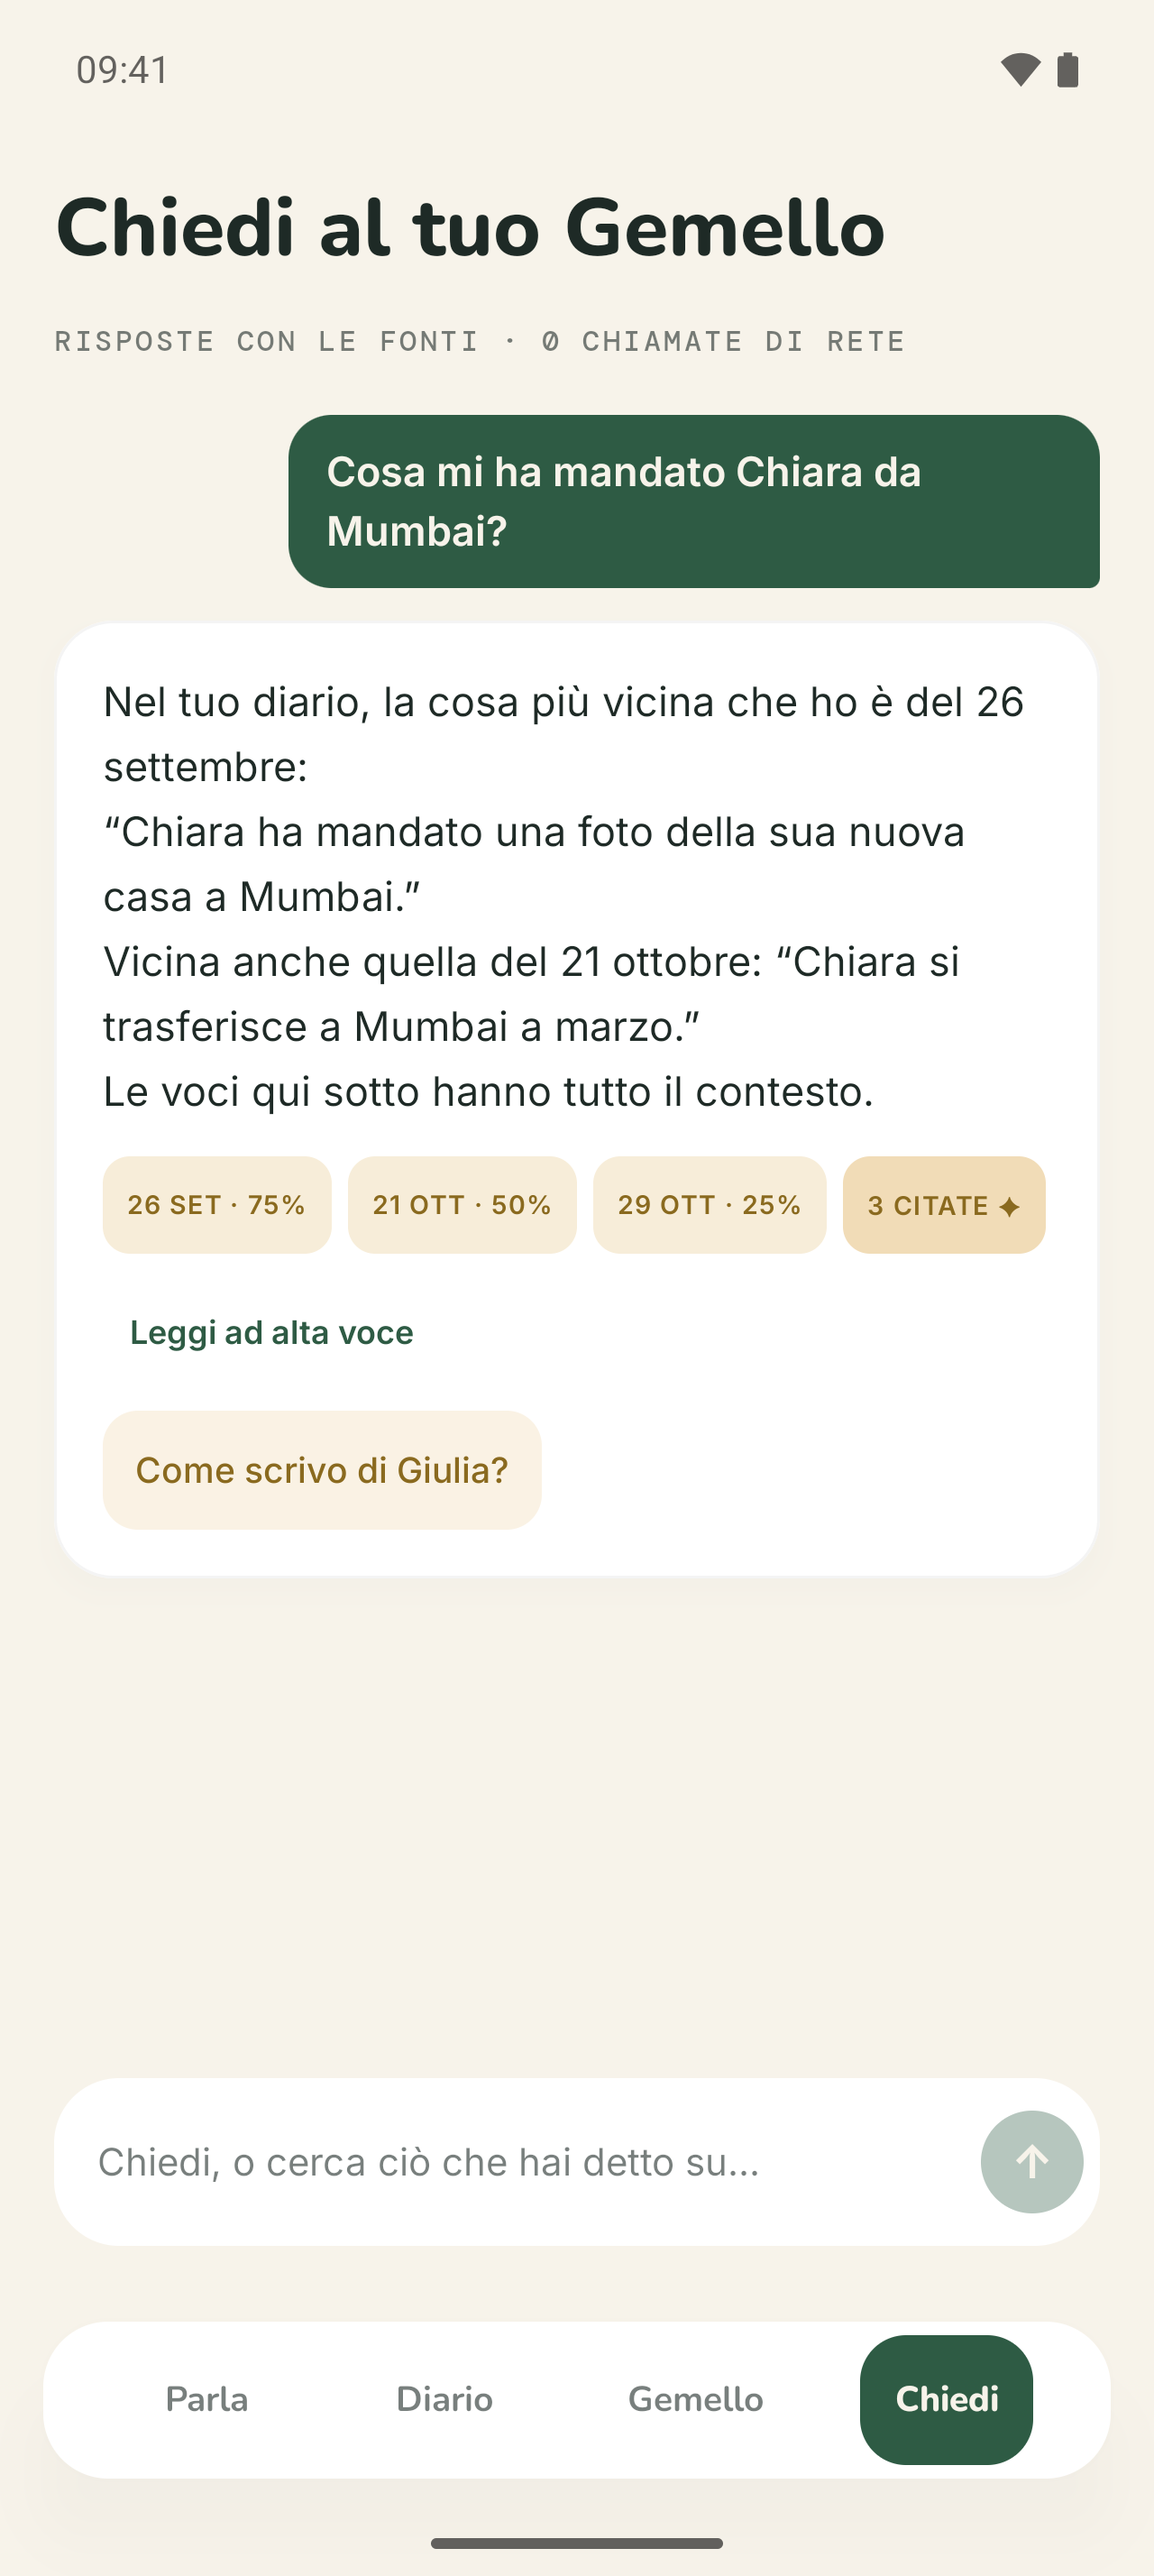
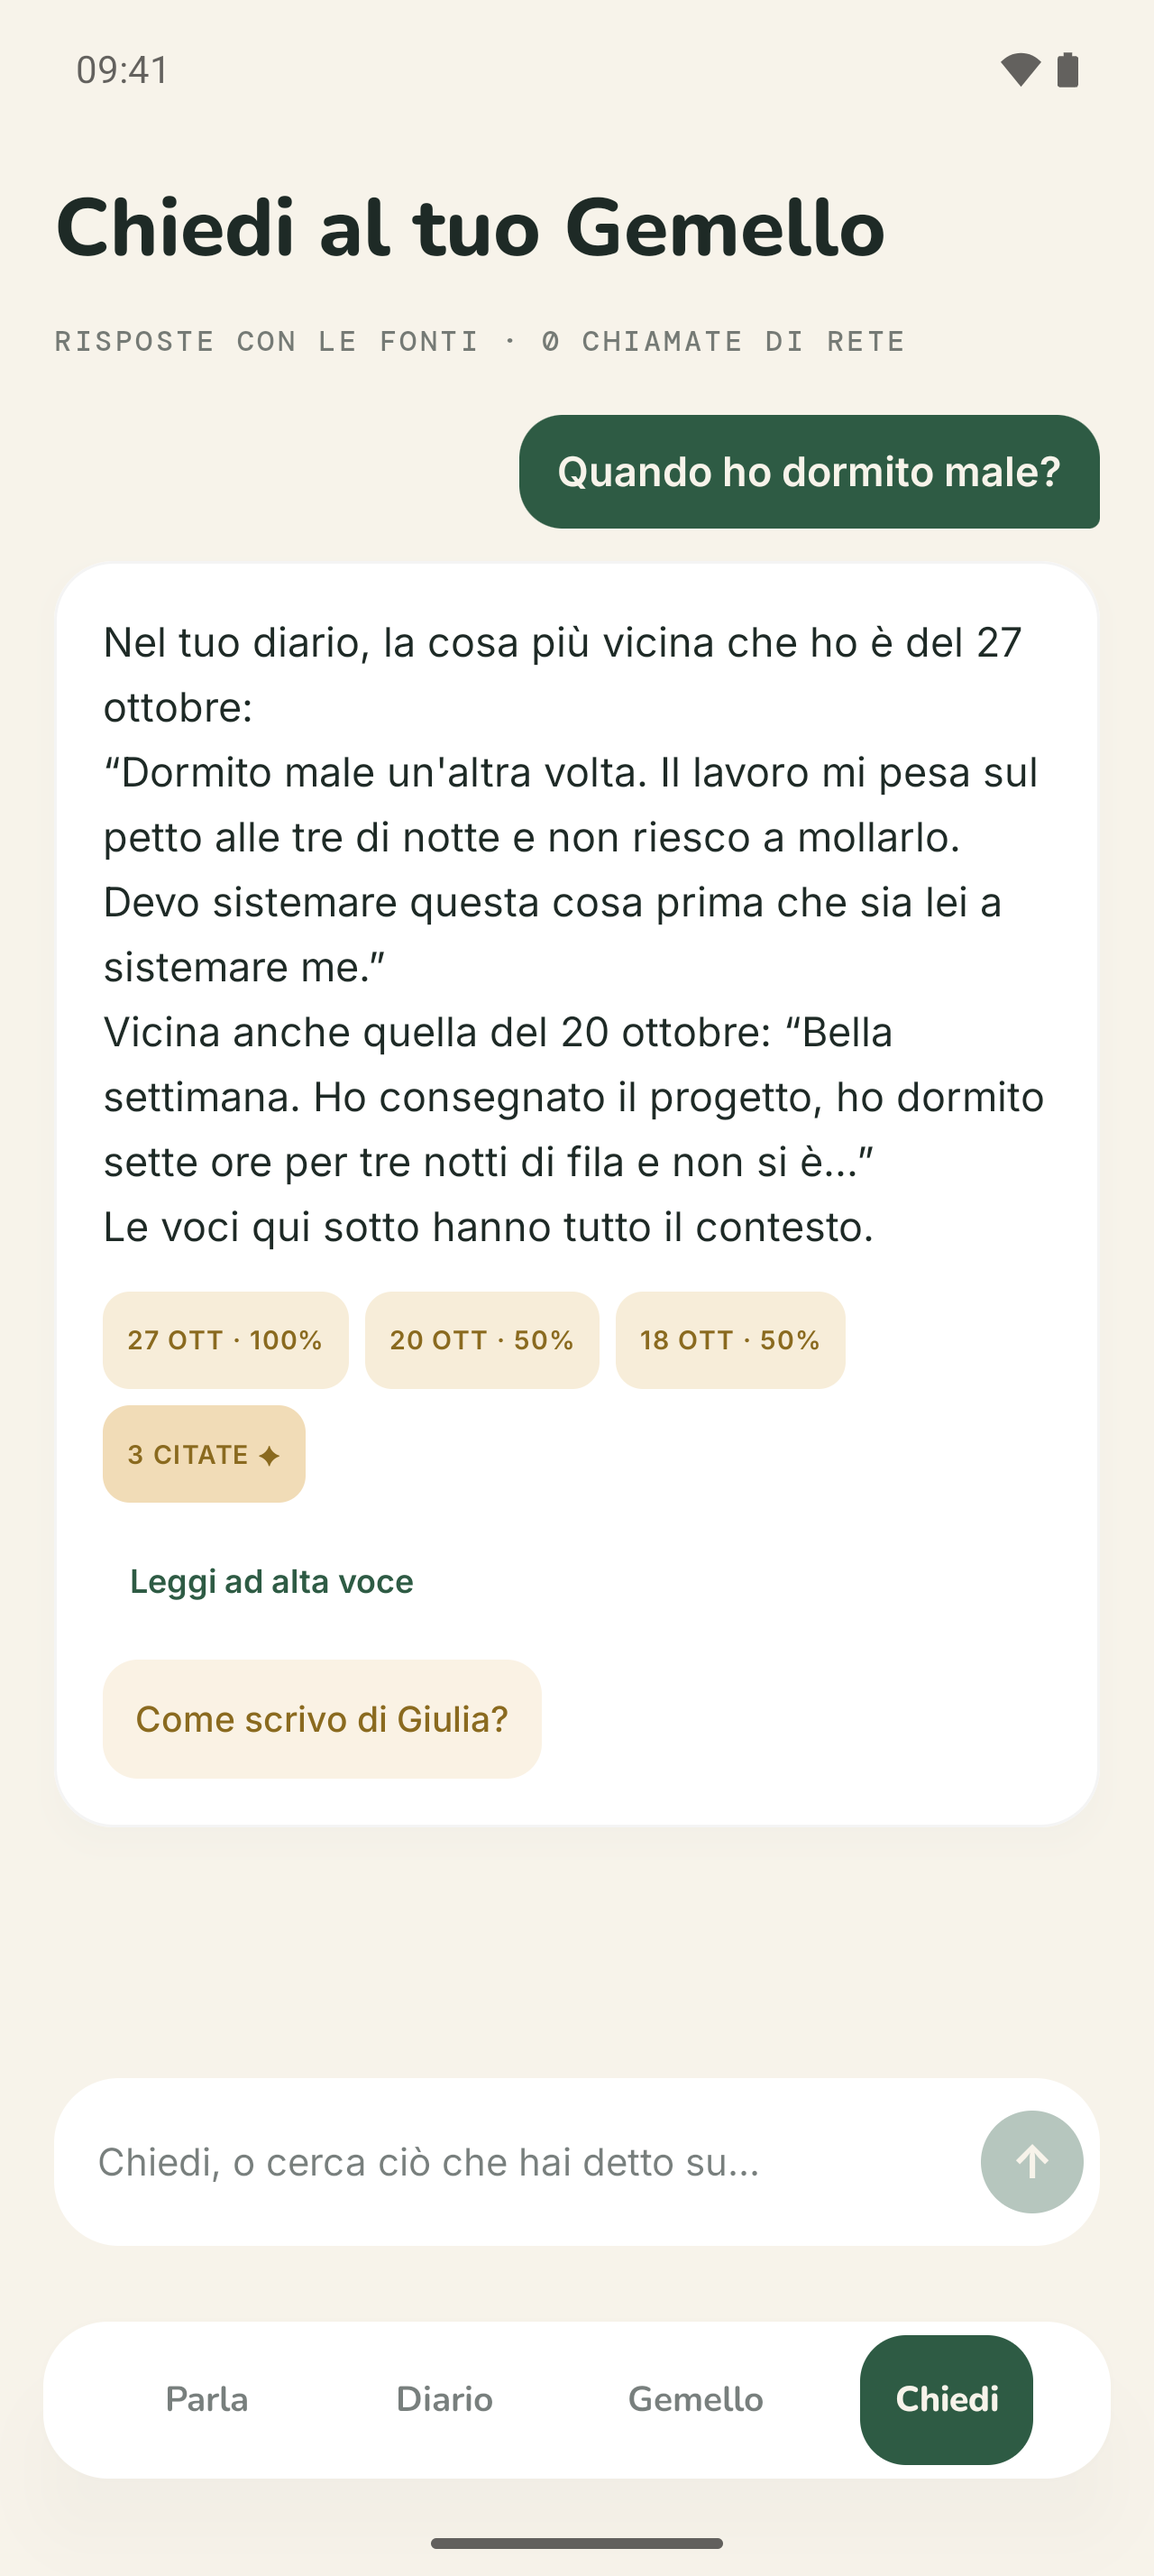
playstore: re-shoot the localized Ask frames on the language-aware search
With Ask searching in the question's language (c4aabfb2), ordinary
questions now find their entry, so de, fr, it and pt-BR ask the natural
one: when did I sleep badly. Each answer quotes the "slept badly" entry
at 100% plus a second entry, three citations, plural footer, no English
on screen. es keeps "¿Carmen se va a vivir a Mumbai?": the platform
classifier still reads the shorter "¿Carmen se muda a Mumbai?" as English
and frames the answer in English. Citation counts are unchanged, so the
captions are too. English output is byte-identical.

diff --git a/android/playstore/screenshot-src/compose.py b/android/playstore/screenshot-src/compose.py
@@ -41,17 +41,18 @@ quoting the closest entries, with their dates, and that is all its caption
 claims. Each Ask capture is a real question in that language, typed on the
 phone, answered from the seeded journal (not the abstention):
 
-    de     Was hat Marie aus Mumbai geschickt?
+    de     Wann habe ich schlecht geschlafen?
     es     ¿Carmen se va a vivir a Mumbai?
-    fr     Qu'est-ce que Léa m'a envoyé de Mumbai ?
-    it     Cosa mi ha mandato Chiara da Mumbai?
-    pt-BR  A Beatriz vai morar em Mumbai?
+    fr     Quand est-ce que j'ai mal dormi ?
+    it     Quando ho dormito male?
+    pt-BR  Quando eu dormi mal?
 
-Ask's word match counts the question's own function words against it (they
-are not stopped in the question), so a long natural question can abstain;
-these were checked to clear the threshold. German has no name detection
-(every noun is capitalised), so its sky has no named stars and no caption
-mentions people; pt-BR copy does not claim names either. The entry frame is
+Since 1.3's fix, Ask drops the question's own function words in its
+language, so ordinary questions find their entry. The platform language
+classifier still reads some short Spanish as English (e.g. "¿Carmen se muda
+a Mumbai?" gets an English frame), so es uses a longer question. German has
+no name detection (every noun is capitalised), so its sky has no named stars
+and no caption mentions people; pt-BR copy does not claim names either. The entry frame is
 in every set again: since 1.3's fix the Edit and Ask buttons fit in every
 language. The "speak your language" Settings card is no longer used; its
 capture showed debug-build rows.
